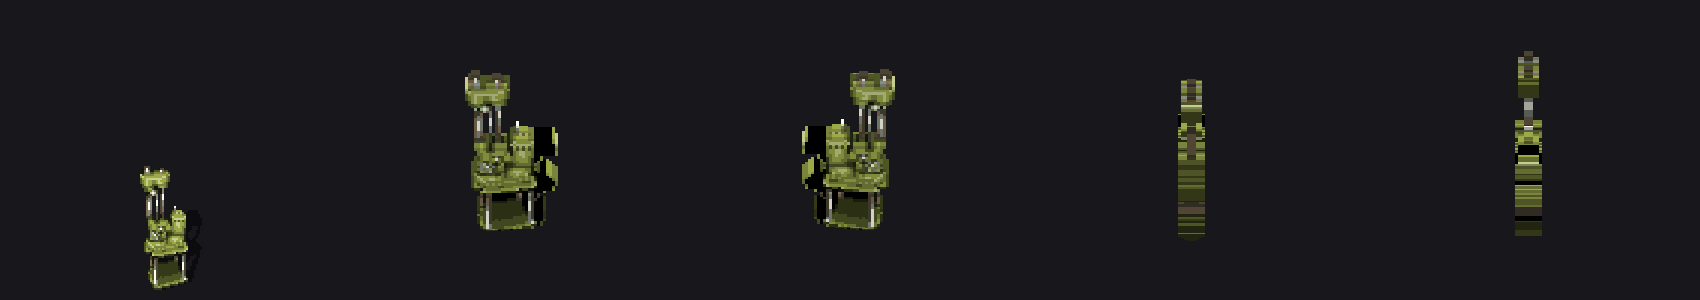
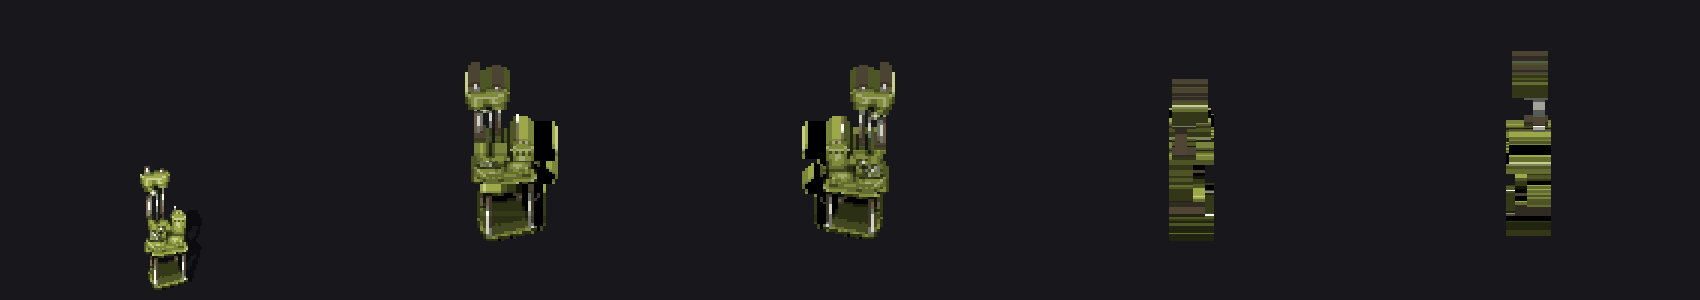
Machinery light: sections placed in depth (head over back posts, deep drive housing, jutting table, front leg over back cabinet) -- front/back untouched

diff --git a/crates/voxelizer/src/props.rs b/crates/voxelizer/src/props.rs
@@ -4139,7 +4139,7 @@ fn manual_model(id: &str, sprite: &RgbaImage) -> Option<PropModel> {
         "f_TV_antenna" => Some(manual_tv_antenna()),
         "f_cellphone_booster" => Some(manual_cellphone_booster()),
         "f_ventilator" => Some(manual_ventilator()),
-        "f_machinery_light" => Some(section_solid(sprite, 0.45, 9)),
+        "f_machinery_light" => Some(section_solid(sprite)),
         "f_ground_cable" => Some(manual_ground_cable()),
         _ => None,
     }
@@ -4313,7 +4313,7 @@ fn manual_cellphone_booster() -> PropModel {
 /// every section has real depth. Clusters that are
 /// entirely near-black are the sprite's ground shadow
 /// and are dropped.
-fn section_solid(sprite: &RgbaImage, factor: f32, max_d: u32) -> PropModel {
+fn section_solid(sprite: &RgbaImage) -> PropModel {
     let (w, h) = (sprite.width(), sprite.height());
     let mut rows = (0..h).filter(|&y| (0..w).any(|x| opaque(*sprite.get_pixel(x, y))));
     let band = rows.next().unwrap_or(0)..rows.last().map(|r| r + 1).unwrap_or(0);
@@ -4340,25 +4340,51 @@ fn section_solid(sprite: &RgbaImage, factor: f32, max_d: u32) -> PropModel {
             if !solid_px {
                 continue;
             }
+            // Depth placement by section, from the
+            // sprite's layout (Joey: front/back fine,
+            // side wrong -- every section was centered,
+            // so the side collapsed to a uniform column.
+            // The machine's mass is placed where the
+            // object puts it: head over the back posts,
+            // the drive housing as the deep mass, the
+            // table jutting forward, a front leg below
+            // it with the cabinet behind):
             let wdt = b - a + 1;
-            // Odd depths only, so every section centers
-            // on the same z and adjoining sections meet
-            // flush instead of stepping by one cell.
-            let mut d = ((wdt as f32 * factor).round() as u32).clamp(3, max_d);
-            if d % 2 == 0 {
-                d += 1;
-            }
-            let z0 = 16 - (d - 1) / 2;
-            let z1 = z0 + d - 1;
+            let (z0, z1) = if y >= 51 {
+                (10, 21) // head housing
+            } else if (40..=50).contains(&y) {
+                if wdt <= 3 {
+                    (11, 14) // the twin rods, at the back
+                } else {
+                    (10, 17) // left column block
+                }
+            } else if (35..=39).contains(&y) {
+                if a >= 16 {
+                    (9, 22) // drive housing: the deep mass
+                } else if wdt <= 3 {
+                    (11, 14)
+                } else {
+                    (10, 17)
+                }
+            } else if (32..=34).contains(&y) {
+                (9, 23) // table, jutting forward
+            } else if (18..=31).contains(&y) {
+                if a >= 27 {
+                    (19, 23) // front leg
+                } else {
+                    (9, 16) // cabinet behind the leg line
+                }
+            } else if (10..=17).contains(&y) {
+                (9, 20) // lower cabinet
+            } else {
+                (9, 23) // plinth / feet
+            };
             // De-void the two SIDE-EDGE columns only:
             // near-black paint is the sprite's outline/
             // shadow, and on a side face it smears into
             // a black slab (the orrery lesson) -- but
             // the front keeps the sprite's pixels
-            // verbatim, dark shading included. (v3
-            // washed every dark pixel in the fill to
-            // modal and flattened the front; Joey
-            // flagged it as worse than the start.)
+            // verbatim, dark shading included.
             let modal = modal_color((a..=b).filter_map(|px| {
                 let c = *sprite.get_pixel(px, r);
                 let v = c.0;
